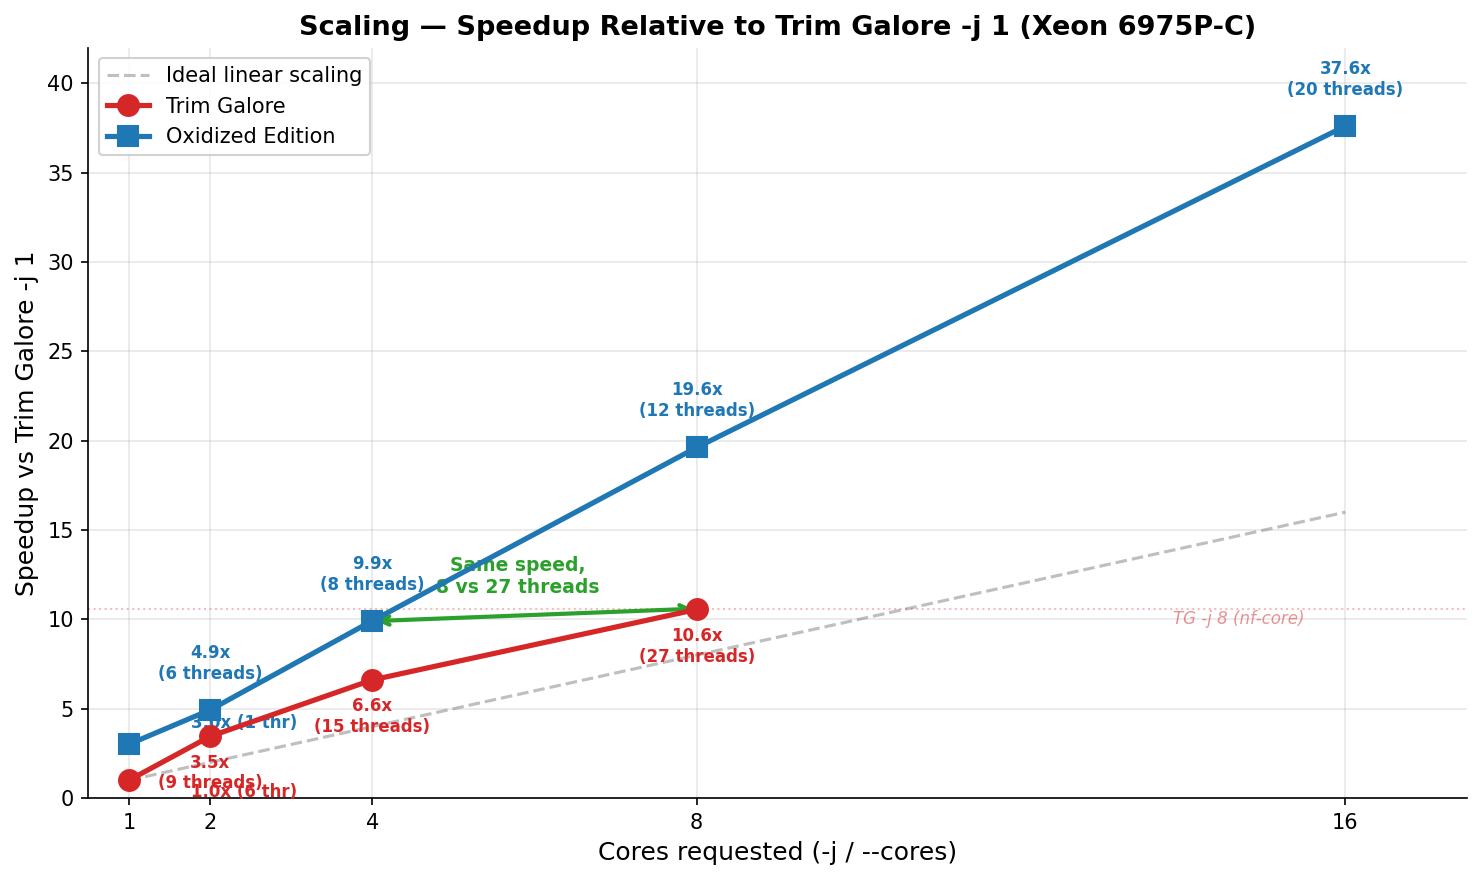
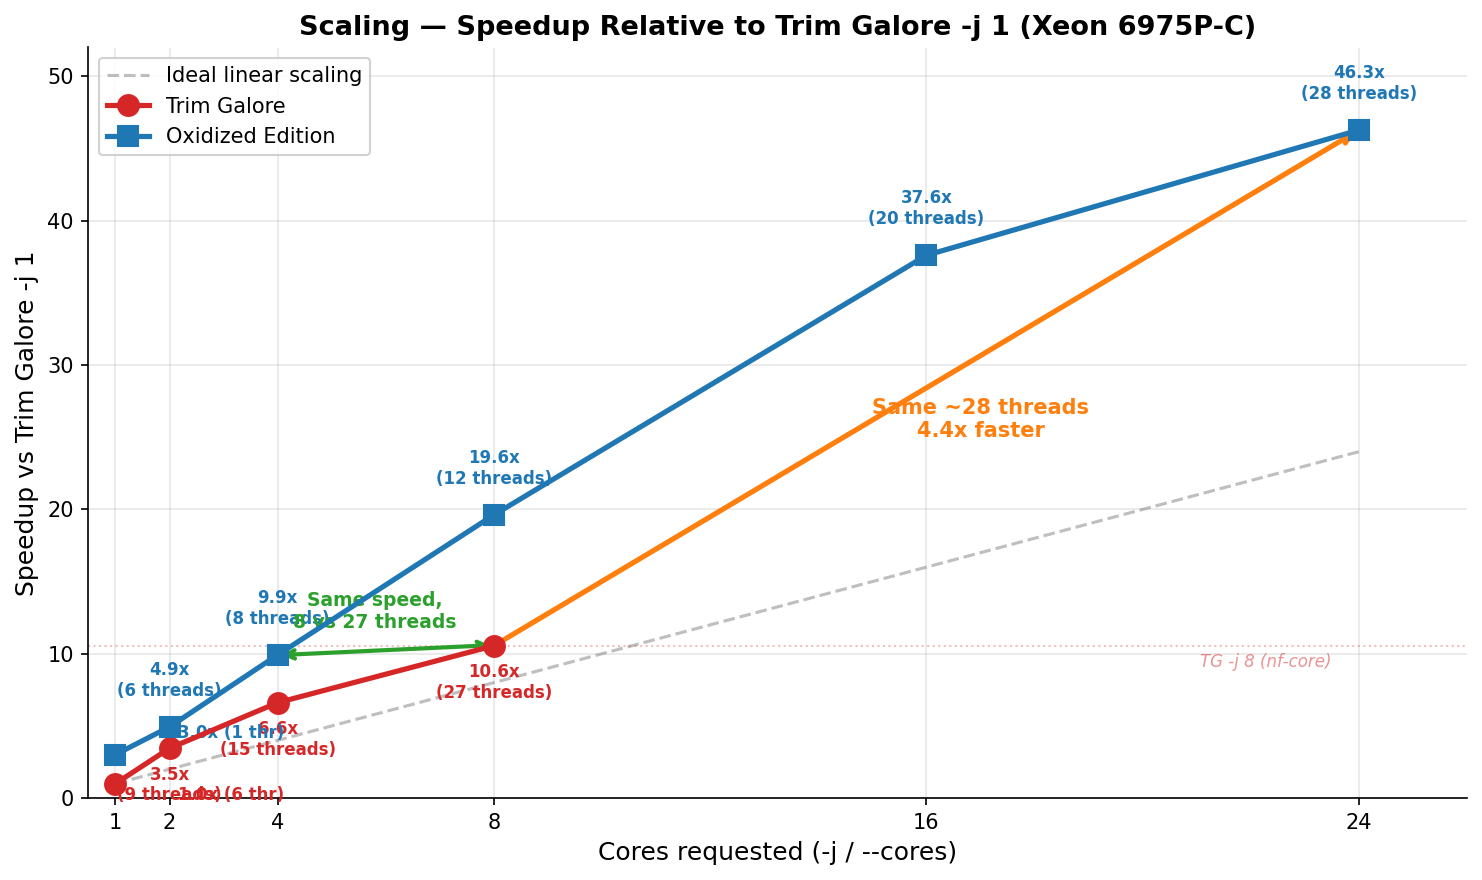
Add --cores 24 benchmark (28 threads, same as TG -j 8)
Apples-to-apples thread comparison: Oxidized --cores 24 uses 28
threads (same as TG -j 8's ~27), finishes in 39s vs 171s — 4.4x
faster with 2.3x less CPU. Charts and production comparison table
updated.

diff --git a/optimus_prime/SUMMARY.md b/optimus_prime/SUMMARY.md
@@ -59,7 +59,8 @@ All outputs verified byte-identical (decompressed) across all core counts via md
 | 2 | 6:06 (366s) | 780s | 43 MB | 6 |
 | 4 | 3:02 (182s) | 771s | 62 MB | 8 |
 | 8 | 1:32 (92s) | 784s | 100 MB | 12 |
-| **16** | **0:48 (48s)** | **814s** | **171 MB** | **20** |
+| 16 | 0:48 (48s) | 814s | 171 MB | 20 |
+| **24** | **0:39 (39s)** | **874s** | **157 MB** | **28** |
 
 #### Head-to-head (same core count)
 
@@ -73,14 +74,17 @@ All outputs verified byte-identical (decompressed) across all core counts via md
 
 In nf-core pipelines, Trim Galore is typically run with `--cores 8`, which spawns ~27 threads (8 Cutadapt workers + 8 pigz compress + 8 pigz decompress + 3 overhead).
 
-| | Trim Galore `-j 8` | Oxidized `--cores 8` | Oxidized `--cores 4` |
-|---|---|---|---|
-| **Wall time** | 171s | **92s (1.9x faster)** | 182s (same speed) |
-| **CPU time** | 2,040s | **784s (2.6x less)** | 771s (2.6x less) |
-| **Threads used** | ~27 | 12 | 8 |
-| **Memory** | 61 MB | 100 MB | 62 MB |
+| | TG `-j 8` | Oxidized `--cores 4` | Oxidized `--cores 8` | Oxidized `--cores 24` |
+|---|---|---|---|---|
+| **Wall time** | 171s | 182s | **92s (1.9x faster)** | **39s (4.4x faster)** |
+| **CPU time** | 2,040s | 771s (2.6x less) | 784s (2.6x less) | **874s (2.3x less)** |
+| **Threads** | ~27 | 8 | 12 | **28** |
+| **Memory** | 61 MB | 62 MB | 100 MB | 157 MB |
 
-The Oxidized Edition at `--cores 4` (8 threads) **matches Trim Galore `-j 8` (27 threads) in wall time** while using 2.6x less CPU and less than a third of the threads. At `--cores 8`, it's nearly **twice as fast**. At `--cores 16`, it processes 56M PE reads in **48 seconds** — and still uses 2.5x less CPU than Trim Galore `-j 8`.
+Three ways to read this:
+- **Same speed, fewer resources:** Oxidized `--cores 4` (8 threads) matches TG `-j 8` (27 threads) in wall time, using 2.6x less CPU and a third of the threads.
+- **Same resources, much faster:** Oxidized `--cores 8` uses 12 threads (fewer than TG's 27) and is nearly **twice as fast**.
+- **Same threads, 4.4x faster:** Oxidized `--cores 24` uses the same ~28 threads as TG `-j 8` but finishes in **39 seconds vs 171 seconds**, using 2.3x less CPU.
 
 ### Laptop benchmark — Apple M1 Pro (10 cores)
 
